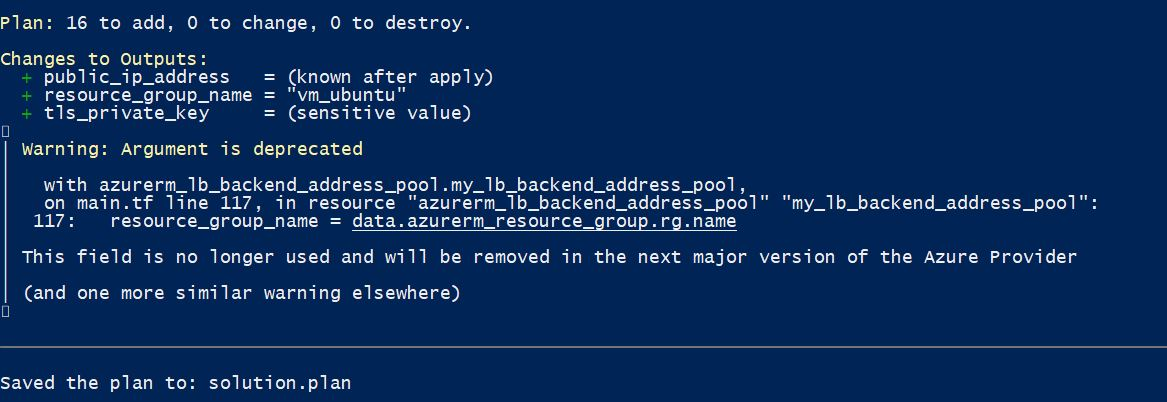
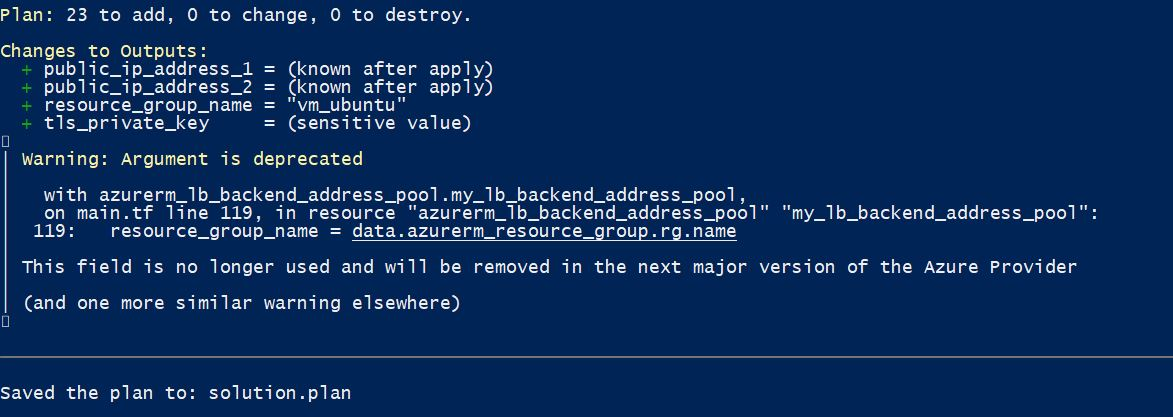
commit multiple vm

diff --git a/C1 - Azure Infrastructure Operations/README.md b/C1 - Azure Infrastructure Operations/README.md
@@ -47,13 +47,16 @@ For this project, you will write a Packer template and a Terraform template to d
 
 2. Packer
 <p style="align:center">
-  <img src="packer/image-ubuntu-1804-packer-result.JPG" width="100%" title="tagging-policy">
+  <img src="packer/image-ubuntu-1804-packer-result.JPG" width="100%" title="image-ubuntu-1804-packer-result">
 </p>
 <p style="align:center">
-  <img src="packer/image-ubuntu-1804.JPG" width="100%" title="tagging-policy">
+  <img src="packer/image-ubuntu-1804.JPG" width="100%" title="image-ubuntu-1804">
 </p>
 
 3. Terraform
 <p style="align:center">
-  <img src="terraform/terraform-output-plan.JPG" width="100%" title="tagging-policy">
+  <img src="terraform/terraform-output-plan.JPG" width="100%" title="terraform-output-plan">
+</p>
+<p style="align:center">
+  <img src="terraform/final-output.JPG" width="100%" title="final-output">
 </p>
